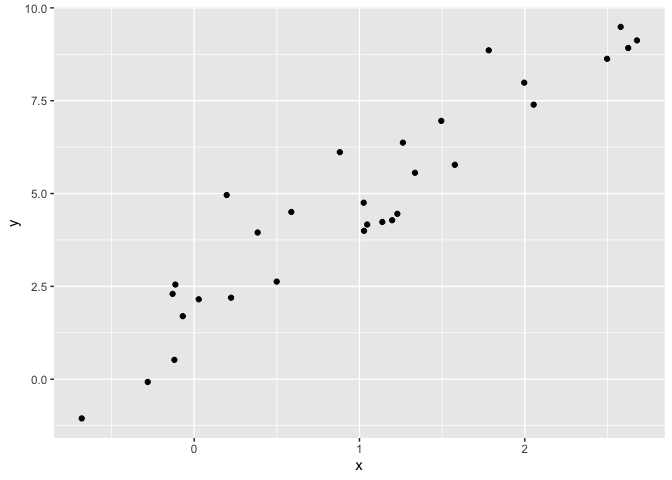
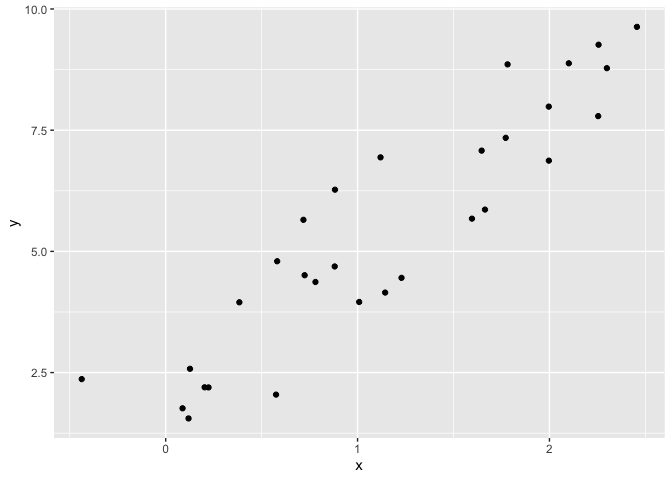
scoping and names

diff --git a/writing-functions.md b/writing-functions.md
@@ -10,7 +10,7 @@ write some functions
 ``` r
 x = rnorm(n = 30, mean = 4, sd = 2.3)
 x_again = rnorm(n = 30, mean = 6, sd = .3)
-y = rnorm(n = 25, mean = 5, sd = 3)
+
 
 (x - mean(x)) / sd(x)
 ```
@@ -48,17 +48,19 @@ z_score = function(x) {
 }
 ```
 
-Try out the function
+Try out the
+    function
 
 ``` r
-z_score(x = y)
+z_score(x = x)
 ```
 
-    ##  [1]  2.27000584 -0.09941700  0.60822782 -0.03414277 -0.78284574
-    ##  [6]  0.12194164 -1.81345954  1.36133805  0.08744277  2.04770191
-    ## [11]  0.40026771 -0.75049432  0.53152723 -0.96808544 -1.27826957
-    ## [16]  0.22159127 -0.49164376 -0.06025241  0.01084022 -0.63359324
-    ## [21] -0.61335130 -0.19254784  1.08228332 -1.54030301  0.51523816
+    ##  [1] -0.767120446  0.109493425 -0.993470503  1.637039863  0.267334741
+    ##  [6] -0.977065475  0.438222871  0.709719461  0.533829741 -0.419692475
+    ## [11]  1.546684110  0.332624325 -0.761479160 -2.485776741  1.128069748
+    ## [16] -0.137851865 -0.106748415  0.932105430  0.799422547  0.553437533
+    ## [21]  0.905205442  0.757128408 -0.008541293 -2.241925304  0.581490604
+    ## [26] -0.149966223 -0.257816586 -1.680744021 -0.606639531  0.363029790
 
 ``` r
 z_score(x_again)
@@ -124,13 +126,13 @@ mean_and_sd = function(input_x) {
 test this function
 
 ``` r
-mean_and_sd(input_x =  y)
+mean_and_sd(input_x =  x)
 ```
 
     ## # A tibble: 1 x 2
     ##    mean    sd
     ##   <dbl> <dbl>
-    ## 1  5.19  3.09
+    ## 1  4.19  2.13
 
 ### Multiple Inputs
 
@@ -260,3 +262,19 @@ read_page_reviews("https://www.amazon.com/product-reviews/B00005JNBQ/ref=cm_cr_a
     ##  8 "Eat your food tina\n            "         5 Format: Prime VideoVerifie…
     ##  9 "Dumb funny\n            "                 5 Format: DVDVerified Purcha…
     ## 10 "Annoying! Not in a good way.\n      …     1 Format: Prime VideoVerifie…
+
+## Scoping and names
+
+``` r
+f = function(x) {
+  z = x + y
+  z
+}
+
+x = 1
+y = 2
+
+f(x = y)
+```
+
+    ## [1] 4
